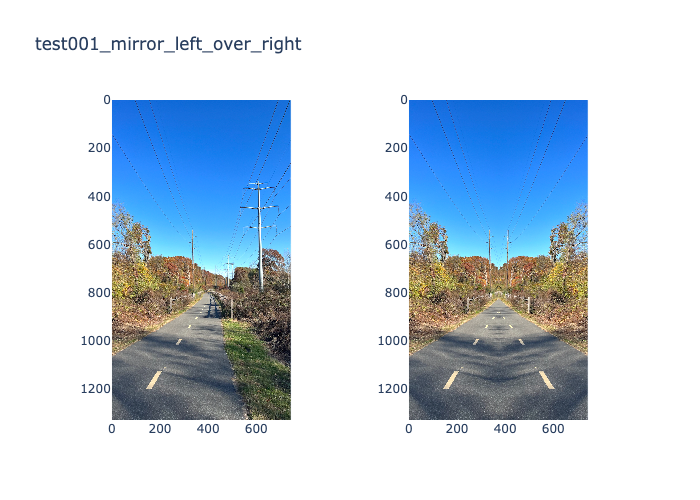
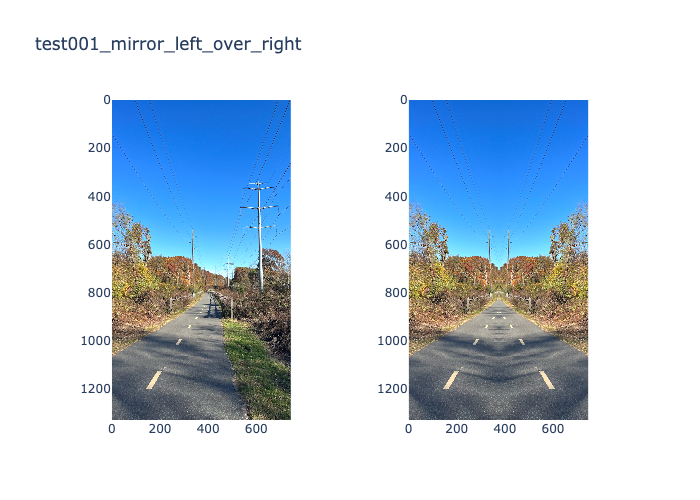
improve efficiency of remaining functions

diff --git a/src/Spirals/spiral.py b/src/Spirals/spiral.py
@@ -9,6 +9,50 @@ from typing import Callable
 THIS_DIR = os.path.dirname(os.path.abspath(__file__))
 
 
+def stack_images(arr1: np.ndarray, arr2: np.ndarray, flip_second=True):
+    """
+    Given two images, convert them from two (r,g,b,c) arrays to (2,r,g,b,c) arrays
+    :param arr1:
+    :param arr2:
+    :param flip_second:
+    :return:
+    """
+    assert arr1.shape == arr2.shape
+    n = arr1.shape[0]
+    if flip_second:
+        arr2 = np.flip(arr2.copy(), axis=1)
+    return np.append(arr1, arr2).reshape(2, *arr1.shape)
+
+
+def ignore_alpha(arr: np.ndarray):
+    return arr[:, :, 3]
+
+
+def func_apply_to_halves(
+        arr: np.ndarray,
+        preprocessing_func: Callable = stack_images,
+        func: Callable = lambda x:x,
+        postprocessing_func: Callable = lambda x:x
+):
+    h, w, c = arr.shape
+
+    left_half_idx_end = (w//2)+1
+    right_half_idx_start = -left_half_idx_end
+
+    left_half = arr.copy()[:, :left_half_idx_end, :]
+    right_half = arr.copy()[:, right_half_idx_start:, :]
+
+    # apply functions
+    preproc_arr = preprocessing_func(left_half, right_half)
+    func_applied_arr = func(preproc_arr)
+    postproc_arr = postprocessing_func(func_applied_arr)
+
+    # take the half and the flipped half and append together
+    new_arr = np.append(postproc_arr, np.flip(postproc_arr[:, :, :], axis=1), axis=1)
+
+    return new_arr
+
+
 def mirror_right_over_left(arr: np.ndarray):
     """
     Mirrors the right half over the left half
@@ -17,12 +61,12 @@ def mirror_right_over_left(arr: np.ndarray):
     :param arr:
     :return:
     """
-    arr = arr.copy()  # prevents overwriting the original object passed
-    h,w,c = arr.shape
-    for i in range(h):
-        for j in range(w//2):
-            arr[i][j], arr[i][w-j-1] = arr[i][w-j-1], arr[i][j]
-    return arr
+    return func_apply_to_halves(
+        arr=arr,
+        preprocessing_func=lambda x,y: y,  # essentially given the left half and the right half, keep the right half
+        func=lambda y: np.flip(y, axis=1)  # take the right side and flip it over to left, this becomes our new left side
+    )
+    # this flipped right side will be combined with the reversed version of itself (original right) on the right side
 
 
 def mirror_left_over_right(arr: np.ndarray):
@@ -31,12 +75,10 @@ def mirror_left_over_right(arr: np.ndarray):
     :param arr:
     :return:
     """
-    arr = arr.copy()  # prevents overwriting the original object passed
-    h,w,c = arr.shape
-    for i in range(h):
-        for j in range(w//2):
-            arr[i][w-j-1], arr[i][j] = arr[i][j], arr[i][w-j-1]
-    return arr
+    return func_apply_to_halves(
+        arr=arr,
+        preprocessing_func=lambda x, y: x  # essentially given the left half and the right half, keep the right half
+    )
 
 
 def flip_horizontal(arr: np.ndarray):
@@ -46,39 +88,7 @@ def flip_horizontal(arr: np.ndarray):
     :return:
     """
     arr = arr.copy()  # prevents overwriting the original object passed
-    h,w,c = arr.shape
-    for i in range(h):
-        for j in range(w//2):
-            arr[i][j], arr[i][w-j-1] = arr[i][w-j-1], arr[i][j].copy()  # copy is key here
-    return arr
-
-
-def stack_pixels(arr1: np.ndarray, arr2: np.ndarray):
-    """
-    Given two pixels, convert them from two (n,) arrays to (2,n) arrays
-    :param arr1:
-    :param arr2:
-    :return:
-    """
-    assert arr1.shape == arr2.shape
-    n = arr1.shape[0]
-    return np.append(arr1, arr2).reshape(2, *arr1.shape)
-
-
-def func_apply_to_halves(arr: np.ndarray, preprocessing_func=stack_pixels, func: Callable = lambda x:x, postprocessing_func= lambda x:x):
-    h, w, c = arr.shape
-
-    left_half_idx_end = (w//2)+1
-    right_half_idx_start = -left_half_idx_end
-
-    left_half = arr.copy()[:, :left_half_idx_end, :]
-    right_half = np.flip(arr.copy()[:, right_half_idx_start:, :], axis=1)
-    preproc_arr = preprocessing_func(left_half, right_half)
-    func_applied_arr = func(preproc_arr)
-    postproc_arr = postprocessing_func(func_applied_arr)
-    new_arr = np.append(postproc_arr, np.flip(postproc_arr[:, :, :], axis=1), axis=1)
-
-    return new_arr
+    return np.flip(arr, axis=1)
 
 
 def average_halves(arr: np.ndarray):
@@ -119,7 +129,7 @@ def min_of_all_channels_halves(arr: np.ndarray):
     """
     return func_apply_to_halves(
         arr,
-        preprocessing_func=lambda x, y: np.append(x[:, :, :3], y[:, :, :3], axis=2),
+        preprocessing_func=lambda x, y: np.append(x[:, :, :3], np.flip(y[:, :, :3], axis=1), axis=2),
         func=lambda x: np.min(x, axis=2),
         postprocessing_func=lambda x: np.repeat(x.reshape(*x.shape, 1), 3, axis=2)
     )
@@ -134,7 +144,7 @@ def max_of_all_channels_halves(arr: np.ndarray):
     """
     return func_apply_to_halves(
         arr,
-        preprocessing_func=lambda x,y: np.append(x[:, :, :3], y[:, :, :3], axis=2),
+        preprocessing_func=lambda x,y: np.append(x[:, :, :3], np.flip(y[:, :, :3], axis=1), axis=2),
         func=lambda x: np.max(x, axis=2),
         postprocessing_func= lambda x: np.repeat(x.reshape(*x.shape,1), 3, axis=2)
     )
@@ -165,7 +175,7 @@ if __name__=="__main__":
 
     funcs = [mirror_right_over_left, mirror_left_over_right, flip_horizontal, average_halves, average_halves_glitched,
      sum_halves, min_of_all_channels_halves, min_halves, max_of_all_channels_halves, max_halves]
-    # funcs = [max_halves]
+    # funcs = [mirror_right_over_left]
 
     for func in funcs:
         print(f"applying function {func.__name__}")
